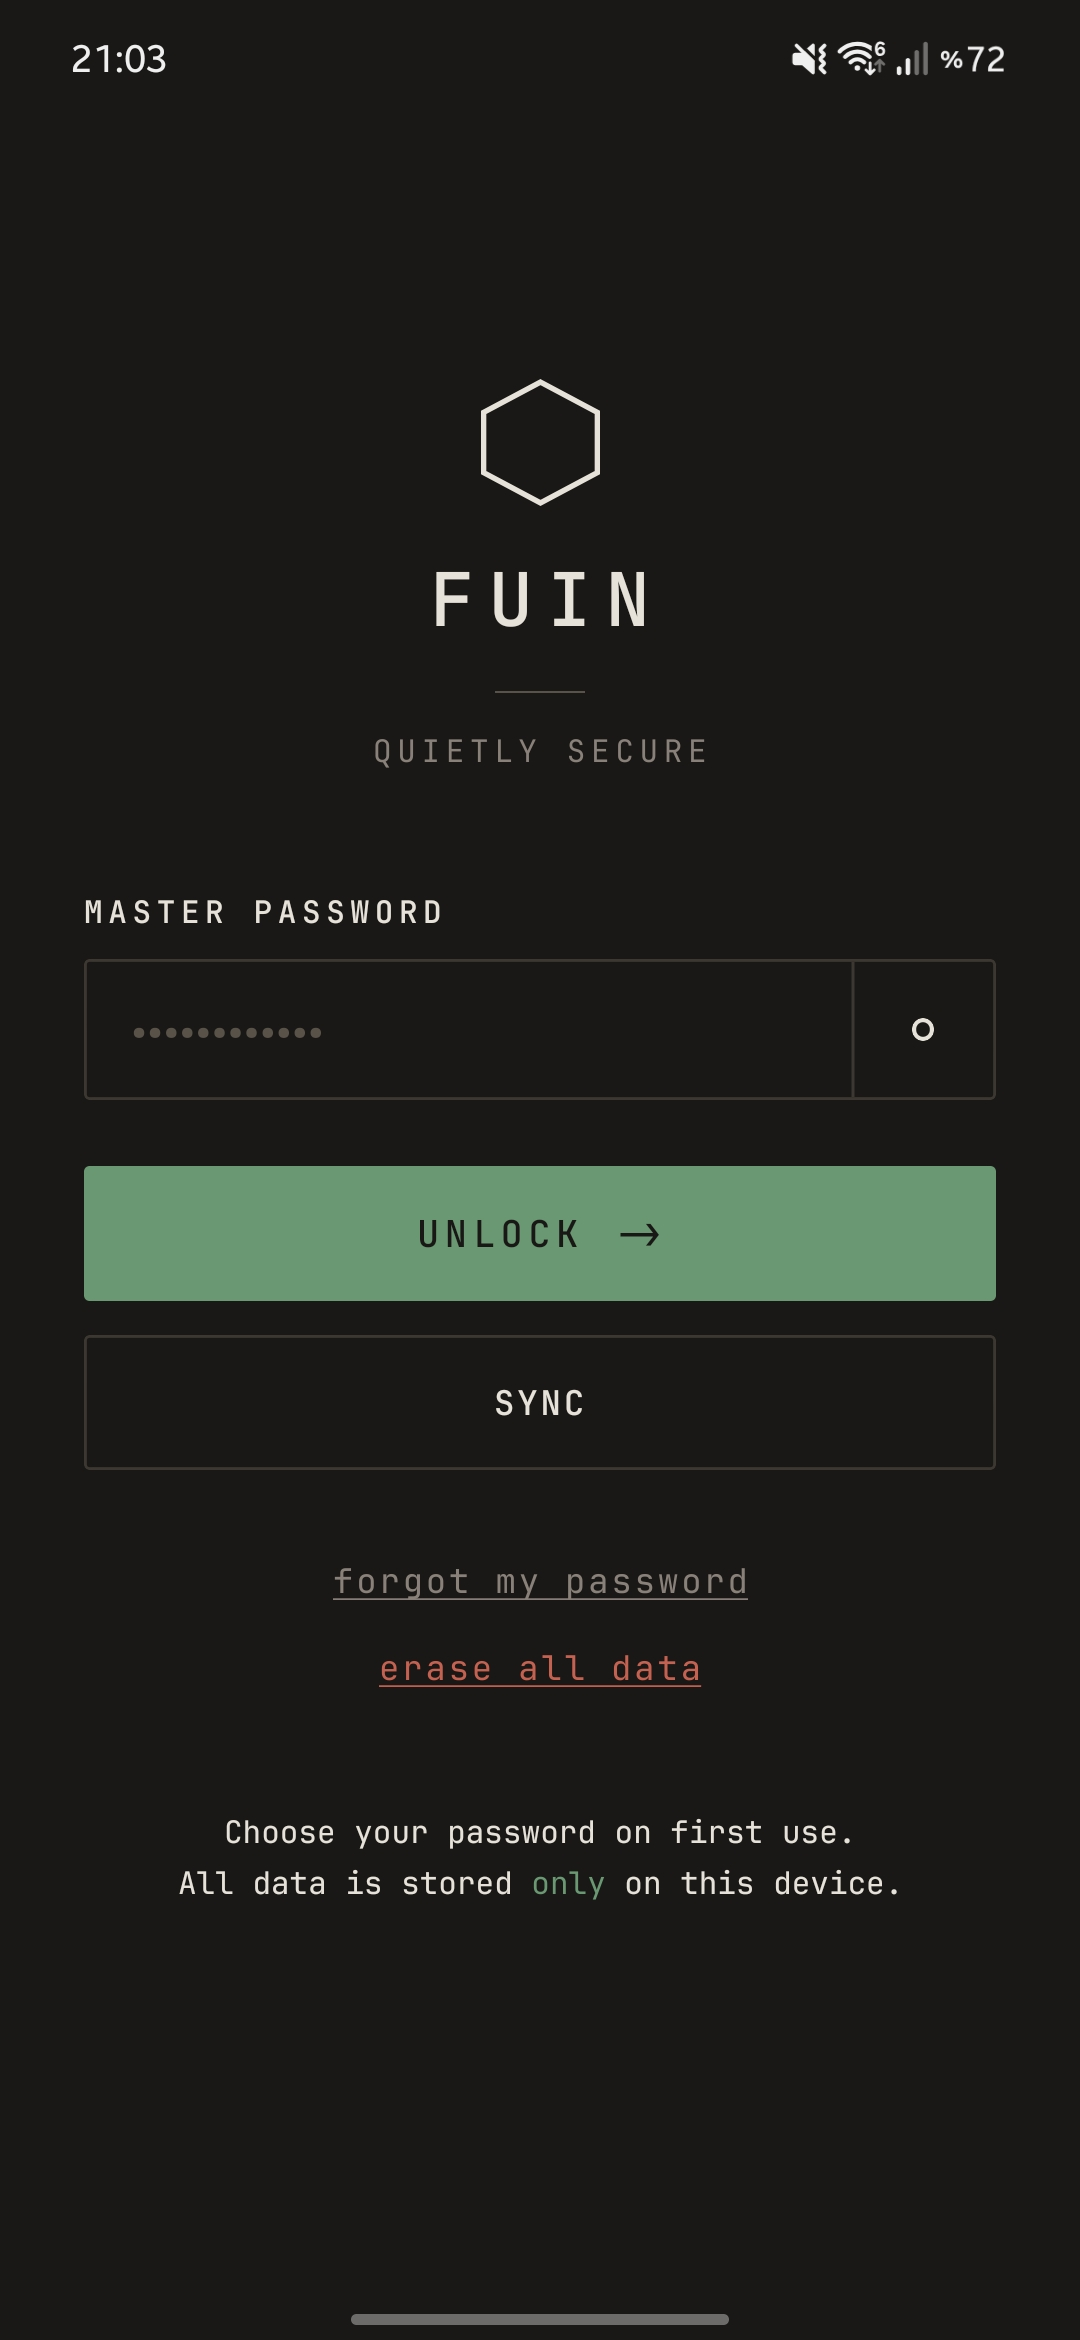
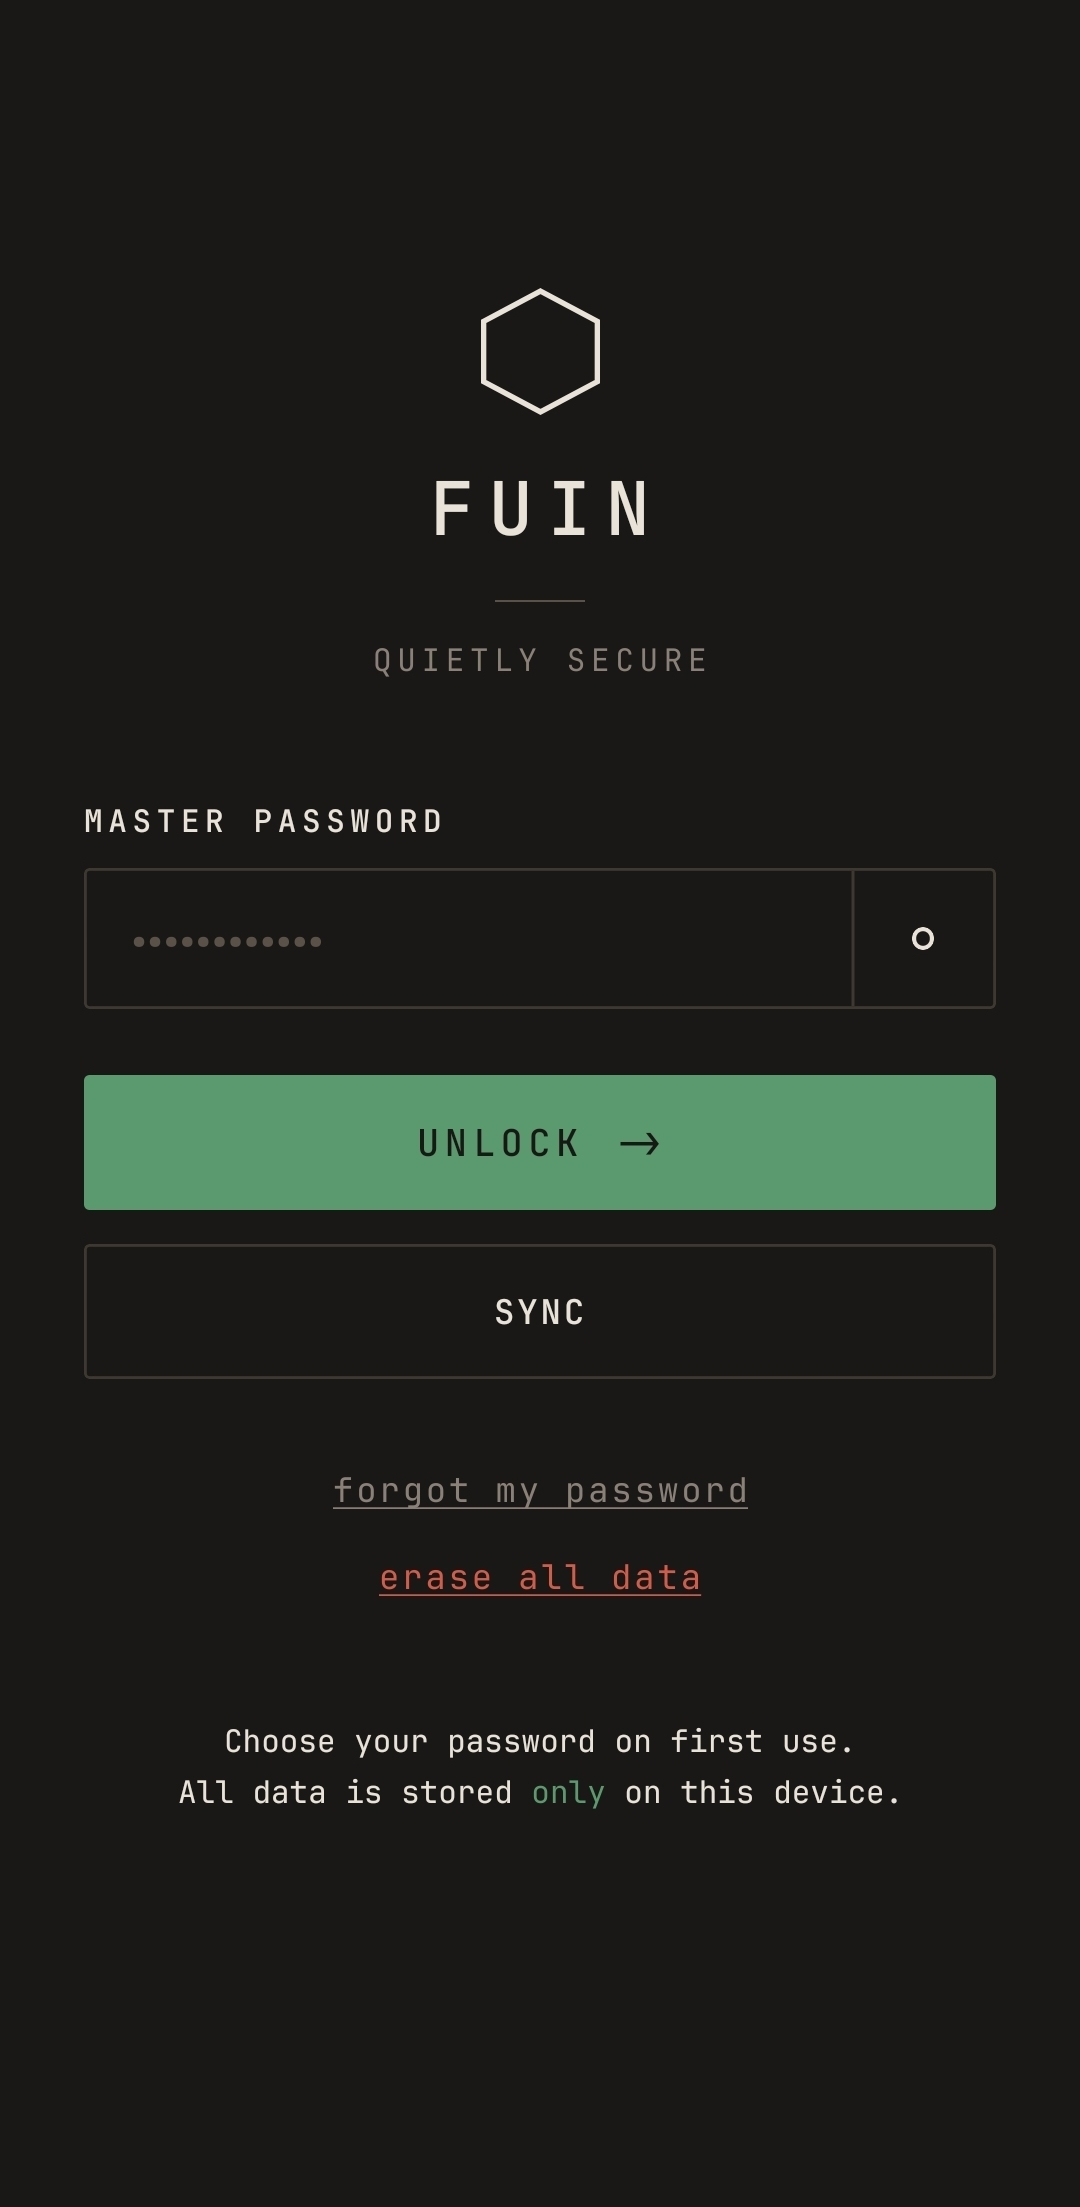
docs: update README with first-person overview and new screenshots

diff --git a/README.md b/README.md
@@ -1,11 +1,11 @@
 <div align="center">
 
-<img src="assets/icon.png" width="84" alt="Fuin Mobile Logo" />
+<img src="assets/icon.png" width="80" alt="Fuin Mobile Logo" />
 
 # Fuin Mobile
 **Quietly secure on the go.**
 
-The mobile companion I built for the [Fuin](https://github.com/Sombooo/Fuin) local-first password and 2FA manager.
+The Android companion app I built for [Fuin](https://github.com/Sombooo/Fuin)—also works standalone on your phone with zero cloud accounts.
 
 [![License: AGPL v3](https://img.shields.io/badge/License-AGPLv3-blue.svg)](https://www.gnu.org/licenses/agpl-3.0)
 [![Platform: Android](https://img.shields.io/badge/Platform-Android-366347.svg)](#)
@@ -18,31 +18,23 @@ The mobile companion I built for the [Fuin](https://github.com/Sombooo/Fuin) loc
 <div align="center">
 <table>
   <tr>
-    <td align="center" width="33%">
-      <img src="assets/screenshots/mobile-lock-dark.jpg" width="240" alt="Lock Screen (Dark)" /><br />
-      <sub><b>Zen Dark — Lock Screen</b></sub>
+    <td align="center" width="50%">
+      <img src="assets/screenshots/mobile-lock-dark.jpg" width="240" alt="Fuin Mobile Lock Screen" /><br />
+      <sub><b>Lock Screen (Zen Dark)</b></sub>
     </td>
-    <td align="center" width="33%">
-      <img src="assets/screenshots/mobile-vault-dark.jpg" width="240" alt="Vault Screen (Dark)" /><br />
-      <sub><b>Zen Dark — Vault</b></sub>
-    </td>
-    <td align="center" width="33%">
-      <img src="assets/screenshots/mobile-generator-dark.jpg" width="240" alt="Password Generator (Dark)" /><br />
-      <sub><b>Password Generator</b></sub>
+    <td align="center" width="50%">
+      <img src="assets/screenshots/mobile-vault-dark.jpg" width="240" alt="Fuin Mobile Vault (Zen Dark)" /><br />
+      <sub><b>Vault — Cards, Logins & Notes</b></sub>
     </td>
   </tr>
   <tr>
-    <td align="center" width="33%">
-      <img src="assets/screenshots/mobile-lock-light.jpg" width="240" alt="Lock Screen (Warm Paper)" /><br />
-      <sub><b>Warm Paper — Lock Screen</b></sub>
+    <td align="center" width="50%">
+      <img src="assets/screenshots/mobile-vault-light.jpg" width="240" alt="Fuin Mobile Vault (Warm Paper)" /><br />
+      <sub><b>Warm Paper Theme</b></sub>
     </td>
-    <td align="center" width="33%">
-      <img src="assets/screenshots/mobile-vault-light.jpg" width="240" alt="Vault Screen (Warm Paper)" /><br />
-      <sub><b>Warm Paper — Vault</b></sub>
-    </td>
-    <td align="center" width="33%">
-      <img src="assets/screenshots/mobile-settings-light.jpg" width="240" alt="Settings (Warm Paper)" /><br />
-      <sub><b>Settings & Pairing</b></sub>
+    <td align="center" width="50%">
+      <img src="assets/screenshots/mobile-tools-dark.jpg" width="240" alt="Fuin Mobile Tools and Encrypted Backups" /><br />
+      <sub><b>Encrypted Backups & Breach Check</b></sub>
     </td>
   </tr>
 </table>
@@ -52,55 +44,56 @@ The mobile companion I built for the [Fuin](https://github.com/Sombooo/Fuin) loc
 
 ## Why I Built Fuin Mobile
 
-When I built the desktop version of **[Fuin](https://github.com/Sombooo/Fuin)** to keep my passwords off the cloud, I still needed a practical way to access my logins on my phone without setting up a central server.
+When I built the desktop version of **[Fuin](https://github.com/Sombooo/Fuin)** to stop storing my logins in the cloud, I quickly ran into the practical downside: I still needed my passwords and 2FA codes on my phone. Running my own sync server felt like overkill, so I built **Fuin Mobile** instead.
 
-I created **Fuin Mobile** to work either as a standalone local vault on your phone or as a direct companion to the desktop app. Everything—decryption, password generation, 2FA codes, and sync merging—runs locally on your device.
+You can use it purely as a standalone local vault on Android, or pair it with Fuin Desktop via QR code and sync updates back and forth over your own Wi-Fi or phone hotspot. No accounts, no servers, no analytics.
 
----
-
-## ✨ Features
-
-- **Offline Vault:** Your passwords stay encrypted on your phone's local storage.
-- **Private P2P Sync:** Pair once with Fuin Desktop via an optical QR code, then sync changes two-way over your local Wi-Fi or phone hotspot using **XChaCha20-Poly1305** encrypted packets with zero cloud relay.
-- **Built-in 2FA (TOTP):** Generate 30-second 6-digit verification codes right inside your vault entries.
-- **Biometric Unlock:** Unlock your vault quickly using Fingerprint or Face ID alongside your master password.
-- **Password Health & Breach Check:** Check your passwords for weak or reused entries locally, or scan against known data breaches using HaveIBeenPwned's k-Anonymity range API.
-- **Import & Encrypted Backups:** Import from **Bitwarden**, **1Password**, **LastPass**, or **Chrome/Edge** (CSV/JSON), and restore from local AES-256-GCM snapshots.
+It's still in active beta—I use it daily and keep fixing rough edges as I find them.
 
 ---
 
-## 🔐 How It Protects Your Data
+## What It Includes
 
-Instead of buzzwords, here is a straightforward summary of what happens under the hood:
-
-- **Key Derivation:** Uses **Argon2id** (`64 MiB` memory, `3` iterations) to turn your master password into encryption keys on-device.
-- **Vault Encryption:** Encrypts your stored vault with authenticated **AES-256-GCM**.
-- **LAN & QR Transport:** Uses **XChaCha20-Poly1305** with per-request nonces and strict local-network (`RFC1918`) checks.
-- **Brute-Force & Screen Protection:** Applies increasing cooldown delays after failed password attempts, blocks screenshots in production builds (`FLAG_SECURE`), and clears copied passwords automatically.
-
-More details are available in [`SECURITY.md`](./SECURITY.md) and [`PRIVACY.md`](./PRIVACY.md).
+- **Offline Vault for Logins, Cards & Notes:** Store website credentials, payment cards (auto-formatted by card brand), and private secure notes encrypted locally on your device.
+- **Direct LAN P2P Sync:** Pair once with Fuin Desktop by scanning an optical QR code, then sync diffs over local Wi-Fi or your hotspot using ephemeral **XChaCha20-Poly1305** encrypted packets.
+- **Built-in 2FA & QR Scanner:** Save TOTP secrets (or scan `otpauth://` QR codes directly with your camera) and copy live 6-digit codes.
+- **Native Android Autofill & Biometrics:** Fill logins inside Android apps and browsers through Android's native `AutofillService`, and unlock quickly with your fingerprint or face alongside your master password.
+- **Health Check, Breach Scan & `.fuin` Backups:** Spot weak or reused passwords offline, optionally run a k-Anonymity check against HaveIBeenPwned, import CSV/JSON exports from Bitwarden/1Password/LastPass/Chrome, and create portable encrypted `.fuin` backups or local snapshots.
 
 ---
 
-## 🛠 Running from Source
+## How Security Works Underneath
 
-Fuin Mobile is built with **React Native** and **Expo**.
+Instead of vague claims, here is what protects your data on-device:
+
+- **Argon2id Key Derivation:** Turns your master password into encryption keys directly on your phone using **Argon2id** (`64 MiB` memory, `3` iterations).
+- **Authenticated Storage (`AES-256-GCM`):** Your vault and `.fuin` backups are encrypted with **AES-256-GCM**, failing safely if anything is tampered with.
+- **Local-Only Network Sync (`XChaCha20-Poly1305`):** Sync packets use **XChaCha20-Poly1305**, per-request nonces, and strict `RFC1918` local-network validation so nothing goes out over the public internet.
+- **Brute-Force & Screen Guards:** Enforces escalating lock delays after wrong password attempts, clears clipboard secrets automatically, and enables Android `FLAG_SECURE` screenshot protection in production builds.
+
+You can read the details in [`SECURITY.md`](./SECURITY.md) and [`PRIVACY.md`](./PRIVACY.md).
+
+---
+
+## Running from Source
+
+Fuin Mobile is built with **React Native** and **Expo**:
 
 ```bash
 # Install dependencies
 npm install
 
-# Run static & crypto interoperability tests
+# Run static & crypto/sync interoperability tests
 npm test
 
-# Start the Expo development server
+# Start the Metro bundler for development
 npx expo start
 ```
 
 ---
 
-## ☕ Support
+## Support & Feedback
 
-Fuin is an independent open-source project licensed under the **AGPLv3**. If you enjoy using it and want to support its development, you can buy me a coffee below:
+Fuin Mobile is independent open-source software licensed under **AGPLv3**. If you try it out and hit a bug or have an idea, issues and PRs are always welcome. And if you'd like to support the project, you can buy me a coffee below—thank you!
 
 [![Support via Lemon Squeezy](https://img.shields.io/badge/Support_Fuin-Buy_Me_A_Coffee-FFDD00?style=for-the-badge&logo=buy-me-a-coffee&logoColor=black)](https://fuindev.lemonsqueezy.com/checkout/buy/c898c753-098b-4c0b-a721-77332db06bdc)
